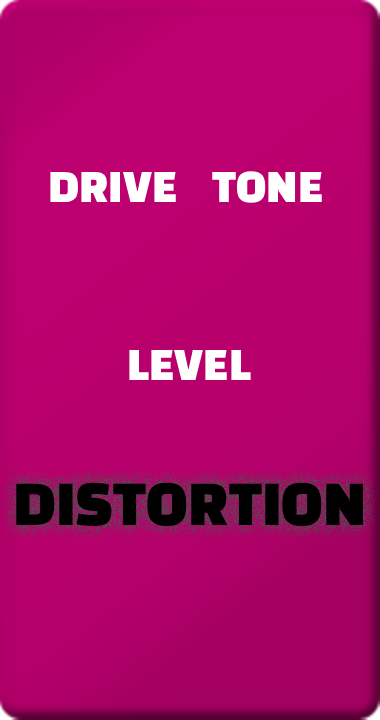
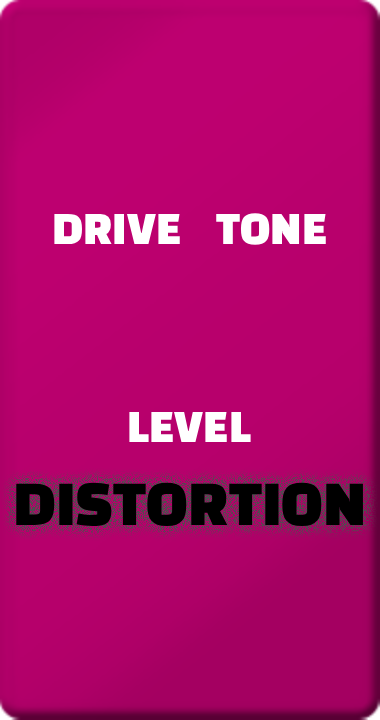
ui for overdrive and distortion

Changed region(s): [[0.1158, 0.2139, 0.4921, 0.3361], [0.55, 0.2139, 0.8684, 0.3667], [0.3184, 0.4889, 0.6658, 0.6111]]

diff --git a/src/pedals/impulse_response.rs b/src/pedals/impulse_response.rs
@@ -4,7 +4,7 @@ use std::hash::Hash;
 use std::sync::Arc;
 
 use crate::dsp_algorithms::impluse_response::{IRConvolver, load_ir};
-use crate::pedals::ui::pedal_switch;
+use crate::pedals::ui::{pedal_switch, sideways_arrow};
 use crate::{unique_time_id, SAVE_DIR};
 use egui_directory_combobox::{DirectoryComboBox, DirectoryNode};
 use serde::{ser::SerializeMap, Deserialize, Serialize};
@@ -353,10 +353,15 @@ impl PedalTrait for ImpulseResponse {
                 .max_rect(button_rect)
                 .layout(egui::Layout::left_to_right(egui::Align::Min))
         );
-        if button_ui.add_sized(
-            Vec2::new(button_rect.width()*0.47, button_rect.height()),
-            egui::Button::new("<")
-        ).clicked() {
+        let button_size = Vec2::new(button_rect.width()*0.47, button_rect.height());
+        let left_button_response = button_ui.add_sized(
+            button_size,
+            egui::Button::new("")
+        );
+        
+        sideways_arrow(ui, left_button_response.rect, true);
+
+        if left_button_response.clicked() {
             self.combobox_widget.select_previous_file();
             if let Some(path) = self.combobox_widget.selected() {
                 if let Some(s) = path.to_str() {
@@ -367,10 +372,14 @@ impl PedalTrait for ImpulseResponse {
             }
         };
         button_ui.add_space(button_rect.width()*0.06);
-        if button_ui.add_sized(
-            Vec2::new(button_rect.width()*0.47, button_rect.height()),
-            egui::Button::new(">")
-        ).clicked() {
+        let right_button_response = button_ui.add_sized(
+            button_size,
+            egui::Button::new("")
+        );
+        
+        sideways_arrow(ui, right_button_response.rect, false);
+
+        if right_button_response.clicked() {
             self.combobox_widget.select_next_file();
             if let Some(path) = self.combobox_widget.selected() {
                 if let Some(s) = path.to_str() {

diff --git a/src/pedals/nam.rs b/src/pedals/nam.rs
@@ -9,7 +9,7 @@ use eframe::egui::{self, include_image, Vec2};
 use egui_directory_combobox::DirectoryComboBox;
 
 use super::{ui::pedal_knob, PedalParameter, PedalParameterValue, PedalTrait};
-use crate::pedals::ui::pedal_switch;
+use crate::pedals::ui::{pedal_switch, sideways_arrow};
 use crate::{unique_time_id, SAVE_DIR};
 
 const NAM_SAVE_PATH: &str = r"NAM";
@@ -371,10 +371,15 @@ impl PedalTrait for Nam {
                 .max_rect(button_rect)
                 .layout(egui::Layout::left_to_right(egui::Align::Min))
         );
-        if button_ui.add_sized(
-            Vec2::new(button_rect.width()*0.47, button_rect.height()),
-            egui::Button::new("<")
-        ).clicked() {
+        let button_size = Vec2::new(button_rect.width()*0.47, button_rect.height());
+        let left_button_response = button_ui.add_sized(
+            button_size,
+            egui::Button::new("")
+        );
+        
+        sideways_arrow(ui, left_button_response.rect, true);
+
+        if left_button_response.clicked() {
             self.combobox_widget.select_previous_file();
             if let Some(path) = self.combobox_widget.selected() {
                 if let Some(s) = path.to_str() {
@@ -385,10 +390,14 @@ impl PedalTrait for Nam {
             }
         };
         button_ui.add_space(button_rect.width()*0.06);
-        if button_ui.add_sized(
-            Vec2::new(button_rect.width()*0.47, button_rect.height()),
-            egui::Button::new(">")
-        ).clicked() {
+        let right_button_response = button_ui.add_sized(
+            button_size,
+            egui::Button::new("")
+        );
+        
+        sideways_arrow(ui, right_button_response.rect, false);
+
+        if right_button_response.clicked() {
             self.combobox_widget.select_next_file();
             if let Some(path) = self.combobox_widget.selected() {
                 if let Some(s) = path.to_str() {

diff --git a/src/pedals/distortion.rs b/src/pedals/distortion.rs
@@ -191,21 +191,21 @@ impl PedalTrait for Distortion {
     }
 
     fn ui(&mut self, ui: &mut egui::Ui, _message_buffer: &[String]) -> Option<(String, PedalParameterValue)> {
-        ui.add(Image::new(include_image!("images/volume.png")));
+        ui.add(Image::new(include_image!("images/distortion.png")));
 
         let mut to_change = None;
         let drive_param = self.get_parameters().get("Drive").unwrap();
-        if let Some(value) = pedal_knob(ui, "Drive", drive_param, egui::Vec2::new(0.08, 0.03), 0.35) {
+        if let Some(value) = pedal_knob(ui, "", drive_param, egui::Vec2::new(0.127, 0.085), 0.35) {
             to_change = Some(("Drive".to_string(), value));
         }
 
         let tone_param = self.get_parameters().get("Tone").unwrap();
-        if let Some(value) = pedal_knob(ui, "Tone", tone_param, egui::Vec2::new(0.57, 0.03), 0.35) {
+        if let Some(value) = pedal_knob(ui, "", tone_param, egui::Vec2::new(0.535, 0.085), 0.35) {
             to_change = Some(("Tone".to_string(), value));
         }
 
         let level_param = self.get_parameters().get("Level").unwrap();
-        if let Some(value) = pedal_knob(ui, "Level", level_param, egui::Vec2::new(0.57, 0.34), 0.35) {
+        if let Some(value) = pedal_knob(ui, "", level_param, egui::Vec2::new(0.325, 0.335), 0.35) {
             to_change = Some(("Level".to_string(), value));
         }
 

diff --git a/src/pedals/overdrive.rs b/src/pedals/overdrive.rs
@@ -187,21 +187,21 @@ impl PedalTrait for Overdrive {
     }
 
     fn ui(&mut self, ui: &mut egui::Ui, _message_buffer: &[String]) -> Option<(String, PedalParameterValue)> {
-        ui.add(Image::new(include_image!("images/volume.png")));
+        ui.add(Image::new(include_image!("images/overdrive.png")));
 
         let mut to_change = None;
         let drive_param = self.get_parameters().get("Drive").unwrap();
-        if let Some(value) = pedal_knob(ui, "Drive", drive_param, egui::Vec2::new(0.08, 0.03), 0.35) {
+        if let Some(value) = pedal_knob(ui, "", drive_param, egui::Vec2::new(0.127, 0.085), 0.35) {
             to_change = Some(("Drive".to_string(), value));
         }
 
         let tone_param = self.get_parameters().get("Tone").unwrap();
-        if let Some(value) = pedal_knob(ui, "Tone", tone_param, egui::Vec2::new(0.08, 0.34), 0.35) {
+        if let Some(value) = pedal_knob(ui, "", tone_param, egui::Vec2::new(0.535, 0.085), 0.35) {
             to_change = Some(("Tone".to_string(), value));
         }
 
         let level_param = self.get_parameters().get("Level").unwrap();
-        if let Some(value) = pedal_knob(ui, "Level", level_param, egui::Vec2::new(0.57, 0.34), 0.35) {
+        if let Some(value) = pedal_knob(ui, "", level_param, egui::Vec2::new(0.325, 0.335), 0.35) {
             to_change = Some(("Level".to_string(), value));
         }
 

diff --git a/src/pedals/ui.rs b/src/pedals/ui.rs
@@ -68,7 +68,6 @@ pub fn pedal_knob(
             let knob_im_shine_overlay = ui.add(egui::Image::new(egui::include_image!("images/pedal_knob_blender_shine.png"))
                 .max_width(size_px)
                 .sense(egui::Sense::click_and_drag())
-                .tint(Color32::from_white_alpha(100))
             );
 
             
@@ -148,4 +147,25 @@ pub fn pedal_switch(
     } else {
         None
     }
+}
+
+pub fn sideways_arrow(
+    ui: &mut egui::Ui,
+    button_rect: egui::Rect,
+    left: bool
+) {
+    let icon_size = Vec2::splat(ui.spacing().icon_width);
+    let right_arrow_rect = egui::Align2::CENTER_CENTER.align_size_within_rect(icon_size, button_rect);
+    let points = if left {
+        vec![right_arrow_rect.right_top(), right_arrow_rect.right_bottom(), right_arrow_rect.left_center()]
+    } else {
+        vec![right_arrow_rect.left_top(), right_arrow_rect.right_center(), right_arrow_rect.left_bottom()]
+    };
+    ui.painter().add(
+        egui::Shape::convex_polygon(
+            points,
+            Color32::from_gray(200),
+            egui::Stroke::NONE
+        )
+    );
 }
